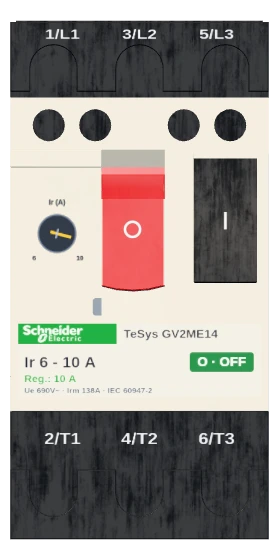
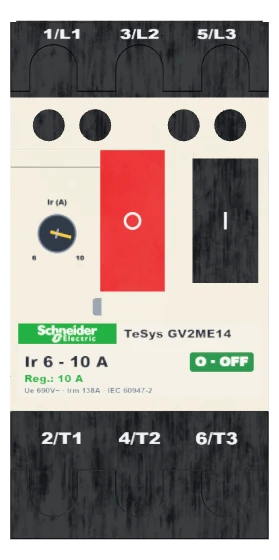
fix(3d): teclas I/O do GV2ME sólidas e berço escuro do manípulo iID
GV2ME: as teclas do STEP eram cascas finas inclinadas (a I saía 9,5 mm como uma
aba) e o curso de 5,5 mm enfiava a I atrás da travessa da tampa, que aparecia
como uma barra branca. Passam a teclas sólidas com o contorno da janela (a O
preenche-a até ao topo), curso de 1,8/2,2 mm sempre à frente da tampa, e saem
os restos da casca noutras primitivas. Símbolos O/I acompanham a face.

iID 4P: a cúpula do berço moldada na carcaça lia-se como uma bola branca ao
lado da alavanca; passa a malha própria antracite. O ombro da alavanca deixa
de ser branco e o tambor alarga para 9,6 mm (a ranhura tem 9,0 mm), fechando
as frestas brancas. Capas regeneradas.

diff --git a/src/three/importedFinish.ts b/src/three/importedFinish.ts
@@ -22,6 +22,12 @@ import type { ImportedControl } from '../electrical/importedComponents'
  */
 
 type Box = { min: [number, number, number]; max: [number, number, number] }
+
+/** GV2ME (mm no GLB): tampa a z 67,4 sobre as teclas; frente das teclas em repouso
+ *  (desligado) e curso quando liga — a I afunda, a O salta. Nunca abaixo de z 67,9. */
+export const GV2ME_BUTTON_BACK = 64
+export const GV2ME_BUTTON_FRONT = { off: 68.6, on: 70.4 } as const
+export const GV2ME_BUTTON_TRAVEL = { off: 1.8, on: 2.2 } as const
 export type PartInfo = { mesh: THREE.Mesh; box: THREE.Box3; size: THREE.Vector3; center: THREE.Vector3; color: string; vertices: number }
 
 const hex = (material: THREE.Material | THREE.Material[]) => {
@@ -42,6 +48,22 @@ function primitiveBoxMm(mesh: THREE.Mesh): { box: THREE.Box3; vertices: number }
   if (used) used.forEach(visit)
   else for (let i = 0; i < position.count; i += 1) visit(i)
   return { box, vertices: used ? used.size : position.count }
+}
+
+/** Retira de `mesh` os triângulos (vértices em mm no referencial do GLB) que cumprem `drop`.
+ *  Só reescreve o índice desta primitiva; o atributo de posição partilhado fica intacto. */
+function dropTriangles(mesh: THREE.Mesh, drop: (a: THREE.Vector3, b: THREE.Vector3, c: THREE.Vector3) => boolean): number {
+  const index = mesh.geometry.getIndex()!, position = mesh.geometry.getAttribute('position')
+  mesh.updateWorldMatrix(true, false)
+  const at = (i: number) => new THREE.Vector3().fromBufferAttribute(position, i).applyMatrix4(mesh.matrixWorld).multiplyScalar(1000)
+  const kept: number[] = []
+  for (let i = 0; i < index.count; i += 3) {
+    const [ia, ib, ic] = [index.getX(i), index.getX(i + 1), index.getX(i + 2)]
+    if (!drop(at(ia), at(ib), at(ic))) kept.push(ia, ib, ic)
+  }
+  const removed = (index.count - kept.length) / 3
+  if (removed) { mesh.geometry = mesh.geometry.clone(); mesh.geometry.setIndex(kept) }
+  return removed
 }
 
 /** Inventário das peças do GLB ainda sem ajuste (raiz na identidade, metros → mm). */
@@ -343,8 +365,41 @@ export function rigImportedModel(type: string, root: THREE.Object3D, parts: Part
     // Botão vermelho O (STOP) à esquerda e preto I (START) à direita (filtro estrito por tamanho para nunca capturar a carcaça)
     const btnOff = parts.find((p) => p.size.x < 16 && p.size.y > 15 && p.center.x > -5 && p.center.x < 5 && p.center.y > 45 && p.center.y < 62)
     const btnOn = parts.find((p) => p.size.x < 16 && p.size.y > 15 && p.center.x > 8 && p.center.x < 22 && p.center.y > 45 && p.center.y < 62)
+    // As teclas do STEP são cascas finas e inclinadas (a I chega a sair 9,5 mm como uma aba).
+    // Ao mover-se mostravam o interior oco e a I enfiava-se atrás da travessa da tampa (z 67,4),
+    // que aparecia como uma barra branca. Passam a teclas sólidas com o mesmo contorno, da
+    // cavidade (z 64) até à frente em repouso; o curso fica sempre à frente da tampa.
+    for (const [part, frontMm] of [[btnOff, GV2ME_BUTTON_FRONT.off], [btnOn, GV2ME_BUTTON_FRONT.on]] as const) {
+      if (!part) continue
+      const { min, max } = part.box
+      // A janela da O sobe até y 66,9 (rampa da tampa a z 65,5…66,9); a casca do STEP
+      // parava em 64 e essa rampa via-se como uma faixa cinzenta por cima da tecla.
+      if (part === btnOff) max.y = Math.max(max.y, 66.9)
+      const depth = frontMm - GV2ME_BUTTON_BACK
+      const geometry = new THREE.BoxGeometry(max.x - min.x, max.y - min.y, depth)
+      geometry.translate((min.x + max.x) / 2, (min.y + max.y) / 2, GV2ME_BUTTON_BACK + depth / 2)
+      geometry.scale(.001, .001, .001)
+      part.mesh.updateWorldMatrix(true, false)
+      geometry.applyMatrix4(part.mesh.matrixWorld.clone().invert())
+      part.mesh.geometry = geometry // o atributo original é partilhado com outras primitivas: não se liberta
+      part.center.set((min.x + max.x) / 2, (min.y + max.y) / 2, GV2ME_BUTTON_BACK + depth / 2)
+      part.box.min.z = GV2ME_BUTTON_BACK; part.box.max.z = frontMm
+    }
+    // Restos das cascas das teclas noutras primitivas (uma lâmina inclinada até z 71,4 e uma
+    // aresta a z 76,9 sobre a I): ficavam a atravessar a tecla sólida como uma barra clara.
+    const footprints = [btnOff, btnOn].filter((p): p is PartInfo => !!p).map((p) => p.box)
+    const buttons = new Set([btnOff?.mesh, btnOn?.mesh])
+    if (footprints.length) root.traverse((node) => {
+      const mesh = node as THREE.Mesh
+      if (!mesh.isMesh || buttons.has(mesh) || !mesh.geometry.index) return
+      dropTriangles(mesh, (a, b, c) => [a, b, c].some((v) => v.z > 67.6) && footprints.some((f) => [a, b, c].every((v) => v.x >= f.min.x - .3 && v.x <= f.max.x + .3 && v.y >= f.min.y - .3 && v.y <= f.max.y + .3)))
+    })
     if (btnOff) pivotAround(root, [btnOff.mesh], btnOff.center.clone(), 'button-off', rig)
     if (btnOn) pivotAround(root, [btnOn.mesh], btnOn.center.clone(), 'button-on', rig)
+    for (const [part, role] of [[btnOff, 'button-off'], [btnOn, 'button-on']] as const) {
+      const pivot = part && root.getObjectByName(`imported_${role}`)
+      if (pivot) pivot.userData.frontOffsetMm = part.box.max.z - part.center.z
+    }
   } else if (type === 'keyActuatorEao61') {
     pivotAround(root, parts.filter((p) => inside(p.center, { min: [-1.5, 9, 33], max: [1.5, 24, 76] }) && p.size.x <= 2.5).map((p) => p.mesh), new THREE.Vector3(0, 20, 50), 'key', rig)
   } else if (type === 'thermalRelaySiemens3ru1116') {
@@ -427,9 +482,9 @@ export function animateImportedRig(rig: ImportedRig, type: string, state: Record
       item.pivot.rotation.set(r.x, r.y, r.z - item.value * THREE.MathUtils.degToRad(35))
       item.pivot.position.set(p.x, p.y, p.z + (state.tripped ? .003 : 0))
     } else if (item.role === 'button-on' && type === 'motorBreakerSchneiderGv2me') {
-      item.pivot.position.set(p.x, p.y, p.z - item.value * 0.0055)
+      item.pivot.position.set(p.x, p.y, p.z - item.value * GV2ME_BUTTON_TRAVEL.on * .001)
     } else if (item.role === 'button-off' && type === 'motorBreakerSchneiderGv2me') {
-      item.pivot.position.set(p.x, p.y, p.z + item.value * 0.0055)
+      item.pivot.position.set(p.x, p.y, p.z + item.value * GV2ME_BUTTON_TRAVEL.off * .001)
     } else if (item.role.startsWith('button') || item.role === 'stop') item.pivot.position.set(p.x, p.y, p.z - item.value * .0028)
   }
   const RCD_TRIP_COLOR = new THREE.Color('#f59e0b')

diff --git a/src/three/schneiderRcdModel.ts b/src/three/schneiderRcdModel.ts
@@ -27,17 +27,60 @@ export function completeSchneiderIidHandle(root: THREE.Object3D, unit = .001): v
     const indicator = root.getObjectByName('schneider_visisafe' + suffix)
     if (indicator) indicator.position.z = (68.45 + (suffix === '_on' ? .016 : suffix === '_trip' ? .008 : 0)) * unit
   }
+  // O ombro da alavanca vinha no branco da carcaça e, à volta do tambor escuro, lia-se como
+  // uma bola branca. No iID a alavanca é toda antracite: mesmo material da pega.
+  const grip = pivot.getObjectByName('schneider_handle_grip') as THREE.Mesh | undefined
+  const shoulder = pivot.getObjectByName('schneider_handle_white') as THREE.Mesh | undefined
+  if (grip?.isMesh && shoulder?.isMesh && shoulder.material !== grip.material) shoulder.material = grip.material
+  if (grip?.isMesh) splitIidCradle(root, grip.material as THREE.Material, unit)
   const previous = pivot.getObjectByName('schneider_handle_barrel')
-  if (previous?.userData.schneiderHandleClosure === 2) return
+  if (previous?.userData.schneiderHandleClosure === 3) return
   previous?.removeFromParent()
-  const geometry = new THREE.CylinderGeometry(15.85 * unit, 15.85 * unit, 8.9 * unit, 96, 1, false)
+  // A ranhura da carcaça tem 9,0 mm (x −31,4…−22,4); com 8,9 mm ficavam duas frestas
+  // brancas ao lado da alavanca. 9,6 mm: as pontas ficam escondidas na carcaça.
+  const geometry = new THREE.CylinderGeometry(15.85 * unit, 15.85 * unit, 9.6 * unit, 96, 1, false)
   geometry.rotateZ(Math.PI / 2)
   const barrel = new THREE.Mesh(geometry, new THREE.MeshStandardMaterial({ color: '#181b1b', metalness: .02, roughness: .43 }))
   barrel.name = 'schneider_handle_barrel'
   barrel.position.copy(SCHNEIDER_IID_AXIS_OFFSET_M).multiplyScalar(unit / .001)
   barrel.userData.schneiderControl = 'toggle'
-  barrel.userData.schneiderHandleClosure = 2
+  barrel.userData.schneiderHandleClosure = 3
   pivot.add(barrel)
+}
+
+/** Cúpula do berço da alavanca do iID (mm no referencial do GLB): esfera ~Ø19 mm
+ *  moldada na carcaça à volta da ranhura, x −36,5…−17,5, y 24,5…47, frente até z 71. */
+const IID_CRADLE = { x: [-37, -17], y: [24.5, 47.5], zMin: 66.3, face: 69, center: [-26.9, 35.4], radius: 11 } as const
+
+/** O STEP funde a cúpula do berço na carcaça branca; ao lado da alavanca lia-se como uma
+ *  bola branca. Passa para uma malha própria com o material antracite da alavanca (fixa:
+ *  não roda). Só os triângulos inteiros dentro da cúpula; a travessa e a faixa a z 66 ficam. */
+function splitIidCradle(root: THREE.Object3D, material: THREE.Material, unit: number): void {
+  const body = root.getObjectByName('schneider_body') as THREE.Mesh | undefined
+  if (!body?.isMesh || body.parent?.getObjectByName('schneider_handle_cradle')) return
+  root.updateMatrixWorld(true)
+  const toRoot = new THREE.Matrix4().copy(root.matrixWorld).invert().multiply(body.matrixWorld)
+  const geometry = body.geometry, position = geometry.getAttribute('position'), index = geometry.getIndex()
+  const count = index ? index.count : position.count, at = (i: number) => index ? index.getX(i) : i
+  const mm = (i: number) => new THREE.Vector3().fromBufferAttribute(position, at(i)).applyMatrix4(toRoot).divideScalar(unit)
+  const within = (p: THREE.Vector3[], r: { x: readonly number[]; y: readonly number[] }) => p.every((v) => v.x >= r.x[0] && v.x <= r.x[1] && v.y >= r.y[0] && v.y <= r.y[1])
+  const keep: number[] = [], cradle: number[] = []
+  for (let i = 0; i < count; i += 3) {
+    const p = [mm(i), mm(i + 1), mm(i + 2)], z = (p[0].z + p[1].z + p[2].z) / 3
+    const flatFace = p.every((v) => Math.abs(v.z - IID_CRADLE.face) < .08) // frente plana da carcaça
+    const cx = (p[0].x + p[1].x + p[2].x) / 3 - IID_CRADLE.center[0], cy = (p[0].y + p[1].y + p[2].y) / 3 - IID_CRADLE.center[1]
+    const dome = within(p, IID_CRADLE) && z > IID_CRADLE.zMin && !flatFace && Math.hypot(cx, cy) <= IID_CRADLE.radius
+    ;(dome ? cradle : keep).push(at(i), at(i + 1), at(i + 2))
+  }
+  if (!cradle.length) return
+  const shell = geometry.clone(); shell.setIndex(keep)
+  const dome = geometry.clone(); dome.setIndex(cradle)
+  body.geometry = shell
+  const mesh = new THREE.Mesh(dome, material)
+  mesh.name = 'schneider_handle_cradle'
+  mesh.position.copy(body.position); mesh.quaternion.copy(body.quaternion); mesh.scale.copy(body.scale)
+  mesh.castShadow = mesh.receiveShadow = true
+  body.parent!.add(mesh)
 }
 
 /** Anota as peças móveis ANTES da junção de malhas estáticas do painel. */

diff --git a/src/three/protectionMarkings.ts b/src/three/protectionMarkings.ts
@@ -1498,7 +1498,8 @@ export function applyProtectionMarkings(
         ctx.stroke()
       })
       if (stopTex) {
-        const m = makePlateMesh(stopTex, 5.2, 5.2, [0, 0, 1.8], 0.001)
+        // Na face da tecla sólida (ver GV2ME_BUTTON_FRONT em importedFinish).
+        const m = makePlateMesh(stopTex, 5.2, 5.2, [0, 0, Number(btnOff.userData.frontOffsetMm ?? 1.75) + .05], 0.001)
         m.name = '__dcGv2meBtnO'
         btnOff.add(m)
       }
@@ -1515,7 +1516,7 @@ export function applyProtectionMarkings(
         ctx.stroke()
       })
       if (startTex) {
-        const m = makePlateMesh(startTex, 5.2, 5.2, [0, 0, 5.1], 0.001)
+        const m = makePlateMesh(startTex, 5.2, 5.2, [0, 0, Number(btnOn.userData.frontOffsetMm ?? 5.05) + .05], 0.001)
         m.name = '__dcGv2meBtnI'
         btnOn.add(m)
       }
